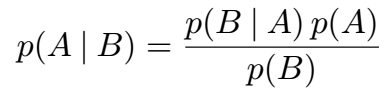
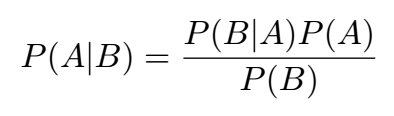
More in depth with basics on first dl post

Changed region(s): [[0.4592, 0.0588, 0.9796, 0.8529], [0.0306, 0.2941, 0.4592, 0.6471]]

diff --git a/_posts/2017-12-26-dl-part-1.md b/_posts/2017-12-26-dl-part-1.md
@@ -9,7 +9,39 @@ This is the first in a several-part series on the basics of deep learning, prese
 
 ## Bayes' Rule
 
-We begin our discussion with Bayes' rule, an important result that captures the intuitive relationship between an event and prior knowledge we have of factors that might affect the probability of the event. Simply put, it formulates how event B affects the probability of event A. It forms the basis of Bayesian inference and Naive Bayes.
+We begin our discussion with **Bayes' rule**, an important result that captures the intuitive relationship between an event and prior knowledge we have of factors that might affect the probability of the event. Simply put, it formulates how event *B* affects the probability of event *A*. It forms the basis of Bayesian inference and Naive Bayes. Because it is a little difficult to grasp intuitively at first, let's go over its derivation from the definition of *conditional probability*, which is a little easier to understand intuitively.
+
+### Conditional probability
+
+Conditional probability simply formulates the probability of event *A* happening **given that** event *B* happened.
+
+![Conditional probability](/img/dl-part-1/conditional-1.png "Basic conditional probability")
+
+The *P*s basically mean "probability of," the vertical bar \| on the left side simply means "given," and the little upside-down u on the numerator of the right side means "and," as in event *A* happening *and* event *B* happening.
+
+What conditional probability is saying is that the probability of event *A* given event *B* is equal to the probability of event *A* and event *B* happening divided by the probability of event *B*. It's a bit easier to see with a Venn diagram of probabilities.
+
+![Conditional probability illustrated](/img/dl-part-1/conditional-2.png "Conditional probability illustrated")
+
+It is fairly clear that if we assume that event *B* has happened and we wish to consider the probability of event *A* happening, then we only need to consider the probability space where *B* happens, that is, the right, darker circle *P(B)*. Within that circle, there's the darkest section, *P(A and B)*, which is how *A* can happen if we assume that *B* happened. So we can see that the probability of *A* given *B* is equal to the probability of *A* and *B* (how *A* can still happen given that *B* happened) divided by the total probability space under consideration, *P(B)*, because, again, we're assuming that *B* happened.
+
+![Bayes' from conditional probability](/img/dl-part-1/conditional-3.png "Derivation of Bayes' Rule")
+
+We first multiply the denominators on both formulas, set the two formulas equal, because "and" is communative - *A* and *B* happening is the same as *B* and *A* happening, and finally multiply *P(B)* over, assuming that that probability is not zero, we can easily derive Bayes' Rule.
+
+### Generalizing Bayes' Rule
 
 ![Vanilla Bayes' Rule](/img/dl-part-1/bayes-rule-1.png "Straight out of probability 101")
+
+To build some more intuition, we use the Law of Total Probability, which states the probability of any event *A* is equal to the probability of that event *A* happening given some event *B* happening times the probability that *B* happens, plus the probability of that event *A* happening given some event *B* happening times the probability *B* doesn't happen. To refer to the diagram above, we're basically saying that the probability of *A* is equal to the dark middle portion, *A* happening given *B* happening, plus the lightest shaded portion, *A* happening but *B* not happening. The bar above an event just means the complement of that event - i.e. the event of that event not happening.
+
+![Law of Total Probability](/img/dl-part-1/total-prob.png "Law of Total Probability")
+
+We rewrite Bayes' rule as follows using the Law of Total Probability, replacing the denominator:
+
+![Bayes' Rule plus Law of Total Probability](/img/dl-part-1/bayes-total-prob.png "Law of Total Probability")
+
+This is for the two variable case, but it is not difficult to see that it generalizes to any finite number of variables, say, if several outcomes *partition* the *probability space*. Those fancy words aren't super important - the takeaway is that we can write in the general case, with multiple events *B<sub>1</sub>*, *B<sub>2</sub>*, ..., *B<sub>n</sub>*, that
+
+
 
